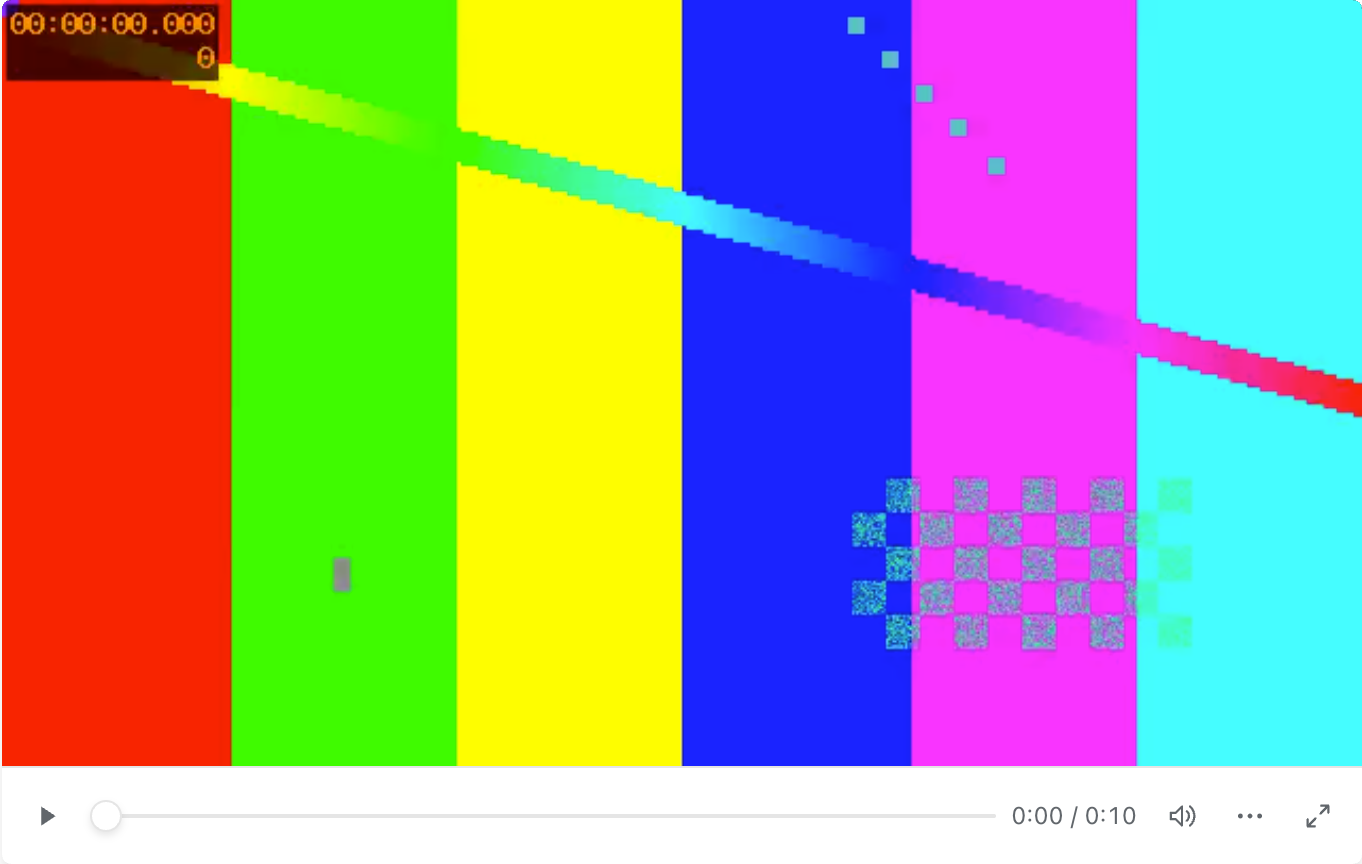
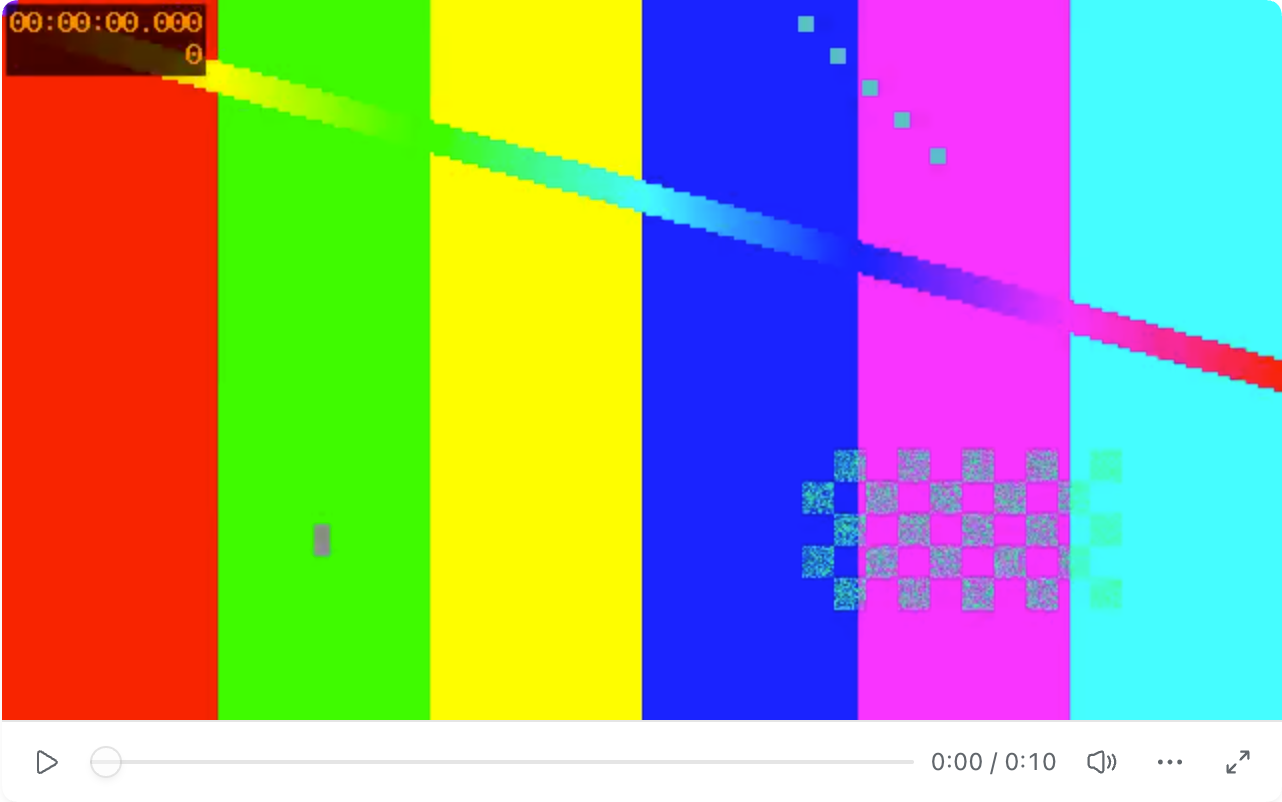
fix: 按逐状态截图校准音视频控件
对照 Codex 生产组件的 20 个状态，修正音频卡片、视频宽度、操作条、弹层、圆角、焦点与窄容器布局。更新截图与对照记录，保留表格和 Mermaid 的实现。

验证：4 项单元测试、20 项 DSH 宿主检查与两种加载顺序冷启动通过；桌面安装包更新至 0.2.2 并校验文件一致。

diff --git a/src/styles.css b/src/styles.css
@@ -53,59 +53,78 @@
   --dcr-border: var(--dsw-alias-border-l2);
   --dcr-hover: color-mix(in srgb, var(--dcr-text) 6%, transparent);
   font-family: var(--dsw-font-family);
+  font-weight: 430;
+  box-sizing: border-box;
 }
-.dcr-control { appearance: none; display: inline-flex; align-items: center; justify-content: center; flex: none; padding: 0; margin: 0; border: 0; background: transparent; color: var(--dcr-tertiary); cursor: pointer; user-select: none; -webkit-app-region: no-drag; }
+.dcr-media *, .dcr-menu * { box-sizing: border-box; }
+.dcr-control { appearance: none; display: inline-flex; align-items: center; justify-content: center; flex: none; padding: 0; margin: 0; border: 0; background: transparent; color: var(--dcr-tertiary); cursor: default; user-select: none; -webkit-app-region: no-drag; }
 .dcr-control svg { display: block; flex: none; }
-.dcr-control:hover:not(:disabled), .dcr-control[aria-expanded=true], .dcr-control[aria-pressed=true] { background: var(--dcr-hover); color: var(--dcr-text); }
+.dcr-control:hover:not(:disabled), .dcr-control[aria-expanded=true] { background: var(--dcr-hover); }
 .dcr-control:focus-visible { outline: 2px solid var(--dsw-alias-state-business-primary); outline-offset: 2px; }
 .dcr-control:disabled { opacity: .4; cursor: default; }
-.dcr-control-toolbar, .dcr-control-audio { width: 28px; height: 28px; border-radius: 6px; color: var(--dcr-secondary); }
-.dcr-control-audio { background: var(--dcr-hover); border: 1px solid var(--dcr-border); }
-.dcr-control-audio svg { width: 16px; height: 16px; }
-.dcr-controls { display: flex; align-items: center; gap: 4px; flex: none; }
-.dcr-tooltip { position: fixed; z-index: 10002; width: max-content; max-width: min(320px, calc(100vw - 16px)); padding: 5px 12px; border: 1px solid #ffffff14; border-radius: 16px; background: #181a1b; color: #fff; font-size: 13px; font-weight: 400; line-height: 18px; letter-spacing: .01em; box-shadow: 0 8px 18px #0f172a33; transform: translate(-50%, -100%); pointer-events: none; animation: dcr-tooltip-enter 100ms ease-out both; }
+.dcr-control-toolbar { width: 28px; height: 28px; border-radius: 10px; color: var(--dcr-secondary); }
+.dcr-control-audio, .dcr-control-audio-more { width: 20px; height: 28px; border-radius: 8px; }
+.dcr-control-audio { background: color-mix(in srgb, var(--dcr-text) 5%, transparent); color: var(--dcr-text); }
+.dcr-control-audio:hover:not(:disabled) { background: color-mix(in srgb, var(--dcr-text) 10%, transparent); }
+.dcr-control-audio-more:hover:not(:disabled), .dcr-control-audio-more[aria-expanded=true] { background: transparent; color: var(--dcr-text); }
+.dcr-media .dcr-actions { gap: 4px; }
+.dcr-tooltip { position: fixed; z-index: 10002; width: max-content; max-width: min(320px, calc(100vw - 16px)); padding: 5px 12px; border: 1px solid #ffffff14; border-radius: 16px; background: #1a1c1f; color: #fff; font-size: 13px; font-weight: 430; line-height: 18px; box-shadow: 0 8px 18px #0f172a33; transform: translate(-50%, -100%); pointer-events: none; animation: dcr-tooltip-enter 100ms ease-out both; }
 .dcr-tooltip-below { transform: translate(-50%, 0); }
-.dcr-menu { position: fixed; z-index: 10001; width: 224px; max-height: min(420px, calc(100vh - 16px)); overflow: auto; padding: 4px; border: .5px solid var(--dcr-border); border-radius: 16px; background: var(--dcr-surface); color: var(--dcr-text); box-shadow: 0 8px 24px #0000001f; animation: dcr-tooltip-enter 120ms ease-out both; }
-.dcr-menu > button { display: flex; align-items: center; gap: 8px; width: 100%; min-height: 32px; padding: 6px 8px; border: 0; border-radius: 8px; color: inherit; background: none; font: 13px/20px var(--dsw-font-family); text-align: start; cursor: pointer; }
+.dcr-menu { position: fixed; z-index: 10001; width: max-content; max-width: calc(100vw - 16px); max-height: calc(100vh - 16px); overflow: auto; padding: 4px; border: 0; border-radius: 16px; background: color-mix(in srgb, var(--dcr-surface) 90%, transparent); color: var(--dcr-text); backdrop-filter: blur(8px); box-shadow: 0 0 0 .5px var(--dcr-border), 0 8px 16px -4px #0000001f; animation: dcr-tooltip-enter 120ms ease-out both; }
+.dcr-menu-audio { min-width: 160px; }
+.dcr-menu-volume { background: var(--dcr-surface); }
+.dcr-menu > button { display: flex; align-items: center; gap: 6px; width: 100%; min-height: 0; padding: 5px 8px; border: 0; border-radius: 12px; color: inherit; background: none; font: 430 13px/18.5714px var(--dsw-font-family); white-space: nowrap; text-align: start; cursor: default; }
+.dcr-menu > button[role=menuitemradio] { font-weight: 500; }
 .dcr-menu > button > span { flex: 1; }
+.dcr-menu > button > .dcr-menu-check { width: 18px; height: 18px; flex: none; display: grid; place-items: center; }
 .dcr-menu > button:is(:hover,:focus-visible) { background: var(--dcr-hover); outline: none; }
 .dcr-menu > button:disabled { opacity: .4; cursor: default; }
-.dcr-menu hr { border: 0; border-top: .5px solid var(--dcr-border); margin: 4px; }
-.dcr-menu-label { padding: 6px 8px 4px; color: var(--dcr-tertiary); font-size: 12px; line-height: 18px; }
+.dcr-menu hr { border: 0; height: 1px; background: var(--dcr-border); margin: 4px 8px; }
+.dcr-menu-label { padding: 4px 8px; color: var(--dcr-tertiary); font-size: 12px; line-height: 18px; }
 
 /* Audio uses a compact attachment row. Video has a dedicated custom control strip. */
 .dcr-media { width: 100%; padding: 0; font-family: var(--dsw-font-family); margin: 12px 0; color: var(--dcr-text); }
-.dcr-audio { max-width: 512px; border: .5px solid var(--dcr-border); border-radius: 8px; background: color-mix(in srgb, var(--dcr-surface) 50%, var(--dsw-alias-markdown-code-block)); }
+.dcr-audio { max-width: 512px; overflow: hidden; border: 0; border-radius: 10px; box-shadow: 0 0 0 .5px var(--dcr-border); background: color-mix(in srgb, var(--dcr-surface) 50%, transparent); }
 .dcr-audio > header { display: flex; align-items: center; gap: 10px; padding: 6px; }
-.dcr-audio-file-icon { display: grid; place-items: center; width: 40px; height: 40px; flex: none; border-radius: 8px; background: var(--dsw-alias-markdown-code-block); color: var(--dsw-alias-state-business-primary); }
+.dcr-audio-file-icon { display: grid; place-items: center; width: 40px; height: 40px; flex: none; border-radius: 10px; background: var(--dsw-alias-markdown-code-block); color: #4263ef; }
 .dcr-media-name { min-width: 0; flex: 1; }
-.dcr-media-name > span { display: block; overflow: hidden; white-space: nowrap; text-overflow: ellipsis; font: 500 16px/20px var(--dsw-font-family); }
-.dcr-media-name > small { display: block; color: var(--dcr-secondary); font: 14px/20px var(--dsw-font-family); }
+.dcr-media-name > span { display: block; overflow: hidden; white-space: nowrap; text-overflow: ellipsis; font: 500 16px/24px var(--dsw-font-family); }
+.dcr-media-name > small { display: block; color: var(--dcr-secondary); font: 430 15px/22.5px var(--dsw-font-family); }
 .dcr-audio-controls { display: flex; align-items: center; gap: 8px; margin: 0; padding: 8px 12px; border-top: 1px solid var(--dcr-border); }
-.dcr-time { color: var(--dcr-secondary); font: 12px/18px var(--dsw-font-family); font-variant-numeric: tabular-nums; white-space: nowrap; }
-.dcr-timeline { appearance: none; flex: 1; min-width: 0; width: 100%; height: 24px; margin: 0; padding: 0; border: 0; background: none; cursor: pointer; touch-action: none; }
+.dcr-time { color: var(--dcr-secondary); font: 430 12px/16px var(--dsw-font-family); font-variant-numeric: tabular-nums; white-space: nowrap; }
+.dcr-timeline { appearance: none; flex: 1; min-width: 0; width: 100%; height: 24px; margin: 0; padding: 0; border: 0; background: none; cursor: default; touch-action: none; }
 :is(.dcr-video,.dcr-menu) .dcr-timeline::-webkit-slider-runnable-track { height: 2px; border-radius: 999px; background: linear-gradient(to right, var(--dcr-text) var(--dcr-progress), var(--dcr-border) var(--dcr-progress)); }
-:is(.dcr-video,.dcr-menu) .dcr-timeline::-webkit-slider-thumb { appearance: none; width: 16px; height: 16px; margin-top: -7px; border: 1px solid var(--dcr-border); border-radius: 50%; background: var(--dcr-surface); box-shadow: 0 2px 4px #0000001a; cursor: pointer; }
-:is(.dcr-video,.dcr-menu) .dcr-timeline:active::-webkit-slider-thumb { cursor: grabbing; }
-.dcr-timeline:focus-visible { outline: 2px solid var(--dsw-alias-state-business-primary); outline-offset: 2px; border-radius: 999px; }
+:is(.dcr-video,.dcr-menu) .dcr-timeline::-webkit-slider-thumb { appearance: none; width: 16px; height: 16px; margin-top: -7px; border: 1px solid var(--dcr-border); border-radius: 50%; background: color-mix(in srgb, var(--dsw-alias-markdown-code-block) 40%, transparent); box-shadow: 0 2px 4px -1px #00000014; cursor: default; }
+.dcr-timeline:focus-visible { outline: none; }
+.dcr-timeline:focus-visible:not(:active)::-webkit-slider-thumb { outline: 2px solid var(--dsw-alias-state-business-primary); outline-offset: 0; }
 .dcr-timeline:disabled { opacity: .4; cursor: default; }
-.dcr-audio .dcr-timeline { appearance: auto; height: 20px; accent-color: var(--dsw-alias-state-business-primary); }
-.dcr-video { max-width: 704px; border-radius: 6px; overflow: hidden; background: var(--dcr-surface); box-shadow: 0 4px 6px #0000001a; }
-.dcr-video video { display: block; width: 100%; margin: 0; border-radius: 0; max-height: min(calc(48vh - 40px), 472px); background: #000; object-fit: contain; cursor: pointer; }
+.dcr-audio .dcr-timeline { height: 20px; }
+.dcr-audio .dcr-timeline::-webkit-slider-runnable-track { height: 20px; background: transparent; }
+.dcr-audio .dcr-timeline::-webkit-slider-thumb { appearance: none; width: 15px; height: 15px; margin-top: 2.5px; border: 0; border-radius: 50%; background: #007aff; }
+.dcr-video { display: flex; flex-direction: column; min-height: 0; width: min(var(--dcr-video-width, 704px), 704px, calc(min(48vh, 512px) - 41px) * var(--dcr-video-ratio, 1.777778)); max-width: 100%; border-radius: 8px; overflow: hidden; background: var(--dcr-surface); box-shadow: 0 2px 4px -1px #00000014; }
+.dcr-video video { display: block; width: 100%; min-height: 0; margin: 0; border-radius: 0; background: #000; object-fit: contain; cursor: default; }
 .dcr-video video:focus-visible { outline: 2px solid var(--dsw-alias-state-business-primary); outline-offset: -2px; }
-.dcr-video-controls { display: flex; align-items: center; gap: 8px; min-height: 40px; padding: 4px 8px; border-top: 1px solid var(--dcr-border); }
+.dcr-video-controls { display: flex; align-items: center; column-gap: 8px; row-gap: 0; flex: none; height: 41px; padding: 0 8px; border-top: 1px solid var(--dcr-border); }
 .dcr-video-actions { display: flex; align-items: center; gap: 6px; }
-.dcr-volume-control { display: flex; align-items: center; gap: 8px; padding: 8px; }
+.dcr-volume-control { display: flex; align-items: center; width: 160px; gap: 8px; padding: 0; }
 .dcr-video:fullscreen { width: 100%; max-width: none; height: 100%; margin: 0; border-radius: 0; display: flex; flex-direction: column; }
 .dcr-video:fullscreen video { flex: 1; min-height: 0; max-height: none; }
 
 
 @keyframes dcr-tooltip-enter { from { opacity: 0; } to { opacity: 1; } }
-@media (max-width: 560px) { .dcr-video-controls { flex-wrap: wrap; } .dcr-video-controls > .dcr-timeline { flex-basis: 100%; order: -1; } .dcr-video-actions { margin-inline-start: auto; } }
+.dcr-video { container-type: inline-size; }
+@container (max-width: 320px) { .dcr-video-controls { height: auto; padding-block: 4px; flex-wrap: wrap; } .dcr-video-controls > .dcr-timeline { flex-basis: 100%; order: -1; } .dcr-video-actions { margin-inline-start: auto; } }
 @media (prefers-reduced-motion: reduce) { .dcr-control, .dcr-tooltip, .dcr-menu { animation: none !important; transition: none !important; } }
 
-.dcr-audio .dcr-time { font-size: 14px; line-height: 20px; }
-.dcr-audio .dcr-timeline:active { cursor: grabbing; }
+.dcr-audio .dcr-time { font-size: 15px; line-height: 22.5px; }
+@supports (corner-shape: superellipse(1.5)) {
+  .dcr-audio, .dcr-audio-file-icon { border-radius: 12.5px; }
+  .dcr-video { border-radius: 10px; }
+  .dcr-control-toolbar { border-radius: 12.5px; }
+  .dcr-control-audio, .dcr-control-audio-more { border-radius: 10px; }
+  .dcr-menu, .dcr-tooltip { border-radius: 20px; }
+  .dcr-audio, .dcr-video, .dcr-control, .dcr-menu, .dcr-tooltip { corner-shape: superellipse(1.5); }
+}
 
 .dcr-menu.dcr-menu-closing { animation: dcr-menu-leave 100ms ease-in forwards; pointer-events: none; }
 @keyframes dcr-menu-leave { to { opacity: 0; } }

diff --git a/src/components.jsx b/src/components.jsx
@@ -103,7 +103,7 @@ export function MermaidCard({code}) {
 
 const time=value=>`${Math.floor(value/60)}:${String(Math.floor(value%60)).padStart(2,'0')}`;
 export function MediaCard({item}) {
-  const player=useRef(),frame=useRef(),scrub=useRef(),[src,setSrc]=useState(null),[playing,setPlaying]=useState(false),[position,setPosition]=useState(0),[duration,setDuration]=useState(0),[error,setError]=useState(''),[volume,setVolume]=useState(1),[muted,setMuted]=useState(false),[rate,setRate]=useState(1),[fullscreen,setFullscreen]=useState(false);
+  const player=useRef(),frame=useRef(),scrub=useRef(),[src,setSrc]=useState(null),[playing,setPlaying]=useState(false),[position,setPosition]=useState(0),[duration,setDuration]=useState(0),[error,setError]=useState(''),[volume,setVolume]=useState(1),[muted,setMuted]=useState(false),[rate,setRate]=useState(1),[fullscreen,setFullscreen]=useState(false),[videoSize,setVideoSize]=useState(null);
   const filename=decodeURIComponent(item.url.split(/[?#]/)[0].split('/').pop()),name=filename||item.label||'媒体文件',kind=item.kind==='audio'?'音频':'视频';
   useEffect(()=>{
     const controller=new AbortController(),element=player.current;let objectURL;
@@ -124,16 +124,16 @@ export function MediaCard({item}) {
   const toggle=async()=>{try{if(player.current.paused)await player.current.play();else player.current.pause();}catch{setError('无法播放此文件，可通过原始文件链接打开。');}};
   const finishScrub=()=>{const resume=scrub.current;scrub.current=null;if(resume)player.current.play().catch(()=>setError('无法恢复播放。'));};
   const timeline=<input className="dcr-timeline" type="range" min="0" max={duration||1} step=".1" value={Math.min(position,duration||1)} disabled={!duration} style={{'--dcr-progress':`${duration?position/duration*100:0}%`}} aria-label={`${kind}进度`} aria-valuetext={`${time(position)} / ${time(duration)}`} onPointerDown={()=>{scrub.current=!player.current.paused;if(item.kind==='video')player.current.pause();}} onPointerUp={finishScrub} onPointerCancel={finishScrub} onLostPointerCapture={finishScrub} onChange={e=>{const value=Number(e.target.value);player.current.currentTime=value;setPosition(value);}}/>;
-  const play=<MediaAction label={playing?`暂停${kind}`:`播放${kind}`} icon={playing?'pause':'play'} variant={item.kind==='audio'?'audio':'toolbar'} disabled={!src} onClick={toggle}/>;
-  const fileItems=[{label:'下载媒体',icon:'download',onSelect:download},{label:'复制文件地址',icon:'copy',onSelect:()=>navigator.clipboard.writeText(item.url)},{label:'打开原始文件',icon:'external',onSelect:()=>window.open(item.src,'_blank','noopener,noreferrer')}];
-  const common={src:src??undefined,preload:'metadata',onError:()=>setError('无法播放此文件，可通过原始文件链接打开。'),onLoadedMetadata:e=>{const value=e.currentTarget.duration;setDuration(Number.isFinite(value)?value:0);},onTimeUpdate:e=>setPosition(e.currentTarget.currentTime),onPlay:()=>setPlaying(true),onPause:()=>setPlaying(false),onEnded:()=>setPlaying(false),onVolumeChange:e=>{setVolume(e.currentTarget.volume);setMuted(e.currentTarget.muted);},onRateChange:e=>setRate(e.currentTarget.playbackRate)};
-  return <section ref={frame} className={`dcr-media dcr-${item.kind}`} aria-label={`${kind}播放器`}>
+  const play=<MediaAction label={playing?`暂停${kind}`:`播放${kind}`} icon={playing?'pause':item.kind==='video'?'playOutline':'play'} variant={item.kind==='audio'?'audio':'toolbar'} tooltip={item.kind==='video'} disabled={!src} onClick={toggle}/>;
+  const copyPath=()=>navigator.clipboard.writeText(item.url);
+  const common={src:src??undefined,preload:'metadata',onError:()=>setError('无法播放此文件，可通过原始文件链接打开。'),onLoadedMetadata:e=>{const el=e.currentTarget,value=el.duration;setDuration(Number.isFinite(value)?value:0);if(item.kind==='video')setVideoSize({width:el.videoWidth,height:el.videoHeight});},onTimeUpdate:e=>setPosition(e.currentTarget.currentTime),onPlay:()=>setPlaying(true),onPause:()=>setPlaying(false),onEnded:()=>setPlaying(false),onVolumeChange:e=>{setVolume(e.currentTarget.volume);setMuted(e.currentTarget.muted);},onRateChange:e=>setRate(e.currentTarget.playbackRate)};
+  return <section ref={frame} className={`dcr-media dcr-${item.kind}`} style={videoSize?{'--dcr-video-width':`${videoSize.width}px`,'--dcr-video-ratio':videoSize.width/videoSize.height}:undefined} aria-label={`${kind}播放器`}>
     {item.kind==='video'?<><video ref={player} playsInline tabIndex="0" aria-label={item.label||name} onClick={toggle} onKeyDown={event=>{if([' ','Enter'].includes(event.key)){event.preventDefault();if(!event.repeat)toggle();}}} {...common}/><div className="dcr-video-controls">
       {play}{timeline}<span className="dcr-time">{time(position)} / {time(duration)}</span><div className="dcr-video-actions">
-        <Menu label="视频音量" icon={muted||!volume?'mute':'volume'} variant="toolbar"><div className="dcr-volume-control"><MediaAction variant="toolbar" label={muted?'取消静音':'静音视频'} icon={muted||!volume?'mute':'volume'} pressed={muted} onClick={()=>{player.current.muted=!player.current.muted;}}/><input className="dcr-timeline" type="range" min="0" max="1" step=".01" value={muted?0:volume} aria-label="视频音量大小" style={{'--dcr-progress':`${muted?0:volume*100}%`}} onChange={event=>{player.current.volume=Number(event.target.value);player.current.muted=false;}}/></div></Menu>
-        <Menu label="视频选项" variant="toolbar" items={[...fileItems,{separator:true},{heading:'播放速度'},...[.25,.5,.75,1,1.25,1.5,1.75,2].map(value=>({label:`${value}×`,checked:rate===value,onSelect:()=>{player.current.playbackRate=value;}})),...document.pictureInPictureEnabled?[{separator:true},{label:'画中画',icon:'pip',onSelect:async()=>{try{if(document.pictureInPictureElement===player.current)await document.exitPictureInPicture();else await player.current.requestPictureInPicture();}catch{setError('无法打开画中画。');}}}]:[]]}/>
-        <MediaAction variant="toolbar" label={fullscreen?'退出全屏':'全屏播放'} icon="expand" onClick={async()=>{try{if(fullscreen)await document.exitFullscreen();else await frame.current.requestFullscreen();}catch{setError('无法进入全屏播放。');}}}/>
-      </div></div></>:<><audio ref={player} {...common}/><header><div className="dcr-audio-file-icon"><MediaIcon name="audio" size={24}/></div><div className="dcr-media-name"><span title={name}>{name}</span><small>{!src?'正在加载音频…':`${filename.split('.').pop().toUpperCase()} 音频`}</small></div><div className="dcr-actions">{play}<Menu label="音频选项" variant="toolbar" items={fileItems}/></div></header><div className="dcr-audio-controls">{timeline}<span className="dcr-time">{time(position)} / {time(duration)}</span></div></>}
+        <Menu label="视频音量" icon={muted||!volume?'mute':'volume'} kind="volume" side="top"><div className="dcr-volume-control"><MediaAction label={muted?'取消静音':'静音视频'} icon={muted||!volume?'mute':'volume'} pressed={muted} onClick={()=>{player.current.muted=!player.current.muted;}}/><input className="dcr-timeline" type="range" min="0" max="1" step=".01" value={muted?0:volume} aria-label="视频音量大小" style={{'--dcr-progress':`${muted?0:volume*100}%`}} onChange={event=>{player.current.volume=Number(event.target.value);player.current.muted=false;}}/></div></Menu>
+        <Menu label="视频选项" side="top" items={[{label:'将视频保存为…',onSelect:download},{separator:true},{label:'复制链接',onSelect:copyPath},{separator:true},{heading:'播放速度'},...[.25,.5,.75,1,1.25,1.5,1.75,2].map(value=>({label:`${value}×`,checked:rate===value,onSelect:()=>{player.current.playbackRate=value;}})),...document.pictureInPictureEnabled?[{label:'画中画',onSelect:async()=>{try{if(document.pictureInPictureElement===player.current)await document.exitPictureInPicture();else await player.current.requestPictureInPicture();}catch{setError('无法打开画中画。');}}}]:[]]}/>
+        <MediaAction label={fullscreen?'退出全屏':'全屏播放'} icon={fullscreen?'collapse':'expand'} onClick={async()=>{try{if(fullscreen)await document.exitFullscreen();else await frame.current.requestFullscreen();}catch{setError('无法进入全屏播放。');}}}/>
+      </div></div></>:<><audio ref={player} {...common}/><header><div className="dcr-audio-file-icon"><MediaIcon name="audio" size={24}/></div><div className="dcr-media-name"><span title={name}>{name}</span><small>{!src?'正在加载音频…':`${filename.split('.').pop().toUpperCase()} 音频`}</small></div><div className="dcr-actions">{play}<Menu label="音频选项" variant="audio-more" kind="audio" items={[{label:'复制路径',icon:'copy',onSelect:copyPath},{label:'保存副本…',icon:'download',onSelect:download}]}/></div></header><div className="dcr-audio-controls">{timeline}<span className="dcr-time">{time(position)} / {time(duration)}</span></div></>}
     {item.kind==='video'&&!src&&!error&&<p className="dcr-status" role="status">正在加载视频…</p>}
     {error&&<p className="dcr-status" role="status">{error}</p>}
   </section>;

diff --git a/src/controls.jsx b/src/controls.jsx
@@ -2,6 +2,7 @@ import React,{useEffect,useLayoutEffect,useRef,useState,useId} from 'react';
 import {createPortal} from 'react-dom';
 
 export function Icon({name,size=20}) {
+  if(name==='audio')return <svg width={size} height={size} viewBox="0 0 24 24" aria-hidden="true">{[[3,9.18,6,'#7da2ff'],[7,3.18,18,'#6d91f5'],[11,7.18,10,'#5d7fec'],[15,5.18,14,'#4c6ee2'],[19,9.18,6,'#3c5cd8']].map(([x,y,height,fill])=><rect key={x} x={x} y={y} width="2" height={height} rx="1" fill={fill}/>)}</svg>;
   const paths={
     copy:<><rect x="3.5" y="6.5" width="10" height="11" rx="2.5"/><path d="M7 3h7a3 3 0 0 1 3 3v7"/></>,
     expand:<path d="M12 3.5h4.5V8M16.5 3.5l-5 5M8 16.5H3.5V12M3.5 16.5l5-5"/>,
@@ -9,24 +10,25 @@ export function Icon({name,size=20}) {
     check:<path d="m4 10 4 4 8-9"/>,
     download:<path d="M10 3v9m-4-4 4 4 4-4M4 13v3a1 1 0 0 0 1 1h10a1 1 0 0 0 1-1v-3"/>,
     code:<path d="m6.5 5-5 5 5 5m7-10 5 5-5 5M11.5 3l-3 14"/>,
-    play:<path d="m7 4 9 6-9 6Z" fill="currentColor" stroke="none"/>,
+    play:<path d="M6 5.4c0-1 1.1-1.6 1.9-1.1l7.4 4.7c.8.5.8 1.6 0 2.1l-7.4 4.7c-.8.5-1.9-.1-1.9-1.1Z" fill="currentColor" stroke="none"/>,
+    playOutline:<path d="M5 4.6c0-1 1.1-1.6 1.9-1.1l9.1 5.6c.9.5.9 1.8 0 2.3l-9.1 5.3C6.1 17.2 5 16.6 5 15.6Z"/>,
+    collapse:<path d="M3.5 8H8V3.5M8 8l-5-5M16.5 12H12v4.5M12 12l5 5"/>,
     pause:<path d="M6 4h3v12H6zM12 4h3v12h-3z" fill="currentColor" stroke="none"/>,
     plus:<path d="M4 10h12M10 4v12"/>,
     minus:<path d="M4 10h12"/>,
     external:<path d="M10 3h7v7m0-7-9 9M8 4H4a1 1 0 0 0-1 1v11a1 1 0 0 0 1 1h11a1 1 0 0 0 1-1v-4"/>,
     more:<g fill="currentColor" stroke="none"><circle cx="4" cy="10" r="1.5"/><circle cx="10" cy="10" r="1.5"/><circle cx="16" cy="10" r="1.5"/></g>,
-    audio:<><path d="M5 3.5h6l4 4v9H5zM11 3.5v4h4"/><path d="M11.5 9.5v4m-3 0a1.5 1.5 0 1 0 3 0"/></>,
-    volume:<><path d="M3 8h3l4-4v12l-4-4H3zM13 7a4 4 0 0 1 0 6M15 4a8 8 0 0 1 0 12"/></>,
-    mute:<><path d="M3 8h3l4-4v12l-4-4H3zM14 8l4 4m0-4-4 4"/></>,
+    volume:<><path d="M9 3.6c.7-.5 1.8 0 1.8 1v10.8c0 1-1.1 1.5-1.8 1l-4-2.9H3.3c-.9 0-1.6-.7-1.6-1.6V7.1c0-.9.7-1.6 1.6-1.6H5ZM13.8 6.5a5.5 5.5 0 0 1 0 7M16.7 5.4a7.7 7.7 0 0 1 0 9.2"/></>,
+    mute:<><path d="M10.8 8V4.6c0-1-1.1-1.5-1.8-1L6.8 5.2M4.6 5.5H3.3c-.9 0-1.6.7-1.6 1.6v4.8c0 .9.7 1.6 1.6 1.6H5l4 2.9c.7.5 1.8 0 1.8-1v-3M13.8 6.5a5.5 5.5 0 0 1 1.2 5M16.7 5.4a7.7 7.7 0 0 1 .8 8M2 2l16 16"/></>,
     pip:<><rect x="2" y="4" width="16" height="12" rx="2"/><rect x="10" y="10" width="6" height="4" rx=".5" fill="currentColor" stroke="none"/></>,
   };
   return <svg width={size} height={size} viewBox="0 0 20 20" fill="none" stroke="currentColor" strokeWidth="1.4" strokeLinecap="round" strokeLinejoin="round" aria-hidden="true">{paths[name]}</svg>;
 }
 
-export function Action({label,icon,onClick,disabled=false,pressed,variant='toolbar',buttonRef,children,...props}) {
+export function Action({label,icon,onClick,disabled=false,pressed,variant='toolbar',tooltip=true,buttonRef,children,...props}) {
   const local=useRef(),timer=useRef(),id=useId(),[tip,setTip]=useState(null),ref=buttonRef??local;
   const hide=()=>{clearTimeout(timer.current);setTip(null);};
-  const show=()=>{clearTimeout(timer.current);if(disabled)return;timer.current=setTimeout(()=>{
+  const show=()=>{clearTimeout(timer.current);if(disabled||!tooltip)return;timer.current=setTimeout(()=>{
     const box=ref.current.getBoundingClientRect();setTip({left:box.left+box.width/2,top:box.top,bottom:box.bottom});
   },200);};
   useEffect(()=>()=>clearTimeout(timer.current),[]);
@@ -36,28 +38,28 @@ export function Action({label,icon,onClick,disabled=false,pressed,variant='toolb
     {tip&&createPortal(<div data-dcr-ui="" id={id} role="tooltip" className={`dcr-tooltip${edge?' dcr-tooltip-below':''}`} style={{left:Math.max(100,Math.min(innerWidth-100,tip.left)),top:edge?tip.bottom+2:tip.top-2}}>{label}</div>,portal)}</>;
 }
 
-export function Menu({label,items,variant='block',icon='more',children}) {
+export function Menu({label,items,variant='toolbar',icon='more',children,kind='options',side='bottom'}) {
   const trigger=useRef(),panel=useRef(),timer=useRef(),[position,setPosition]=useState(null),[closing,setClosing]=useState(false),id=useId();
   const close=(restore=true)=>{if(closing)return;setClosing(true);if(restore)trigger.current?.focus({preventScroll:true});timer.current=setTimeout(()=>{setPosition(null);setClosing(false);},matchMedia('(prefers-reduced-motion: reduce)').matches?0:100);};
   useEffect(()=>()=>clearTimeout(timer.current),[]);
-  const locate=()=>{const r=trigger.current.getBoundingClientRect();setPosition({left:Math.max(8,Math.min(innerWidth-232,r.right-224)),top:r.bottom+6,bottom:innerHeight-r.top+6,above:r.bottom+300>innerHeight});};
-  useLayoutEffect(()=>{if(!position)return;panel.current.querySelector('button,input')?.focus({preventScroll:true});},[!!position]);
+  const locate=()=>{const r=trigger.current.getBoundingClientRect(),box=panel.current?.getBoundingClientRect(),width=box?.width??0,height=box?.height??0,gap=kind==='volume'?4:2,above=side==='top'?r.top-height-gap>=8:r.bottom+height+gap>innerHeight&&r.top-height>8;setPosition({left:Math.max(8,Math.min(innerWidth-width-8,r.right-width-(children?0:1))),top:r.bottom+gap,bottom:innerHeight-r.top+gap,above});};
+  useLayoutEffect(()=>{if(!position)return;locate();panel.current.querySelector('button,input')?.focus({preventScroll:true});},[!!position]);
   useEffect(()=>{
     if(!position)return;
     const outside=e=>{if(!trigger.current.contains(e.target)&&!panel.current.contains(e.target))close(false);};
-    window.addEventListener('pointerdown',outside,true);window.addEventListener('resize',locate);window.addEventListener('scroll',locate,true);
-    return()=>{window.removeEventListener('pointerdown',outside,true);window.removeEventListener('resize',locate);window.removeEventListener('scroll',locate,true);};
+    window.addEventListener('pointerdown',outside,true);window.addEventListener('focusin',outside,true);window.addEventListener('resize',locate);window.addEventListener('scroll',locate,true);
+    return()=>{window.removeEventListener('pointerdown',outside,true);window.removeEventListener('focusin',outside,true);window.removeEventListener('resize',locate);window.removeEventListener('scroll',locate,true);};
   },[!!position,closing]);
   const keyboard=event=>{
     if(event.key==='Escape'){event.stopPropagation();event.preventDefault();close();return;}
-    if(event.key==='Tab'){close(false);return;}
+    if(event.key==='Tab'){if(!children)close(false);return;}
     if(event.target.tagName==='INPUT')return;
     const buttons=Array.from(panel.current.querySelectorAll('button:not(:disabled)')),index=buttons.indexOf(document.activeElement);
     const next={ArrowDown:(index+1)%buttons.length,ArrowUp:(index-1+buttons.length)%buttons.length,Home:0,End:buttons.length-1}[event.key];
     if(next!==undefined){event.preventDefault();buttons[next]?.focus();}
   };
-  return <><Action label={label} icon={icon} variant={variant} buttonRef={trigger} aria-haspopup="menu" aria-expanded={!!position&&!closing} aria-controls={position?id:undefined} onClick={()=>position?close():locate()}/>
-    {position&&createPortal(<div data-dcr-ui="" id={id} ref={panel} role="menu" aria-label={label} inert={closing} className={`dcr-menu${closing?' dcr-menu-closing':''}`} style={{left:position.left,...position.above?{bottom:position.bottom}:{top:position.top}}} onKeyDown={keyboard}>
-      {children}{items?.map((item,index)=>item.separator?<hr key={index}/>:item.heading?<div className="dcr-menu-label" key={index}>{item.heading}</div>:<button key={item.label} type="button" role={item.checked===undefined?'menuitem':'menuitemradio'} aria-checked={item.checked} disabled={item.disabled} onClick={()=>{item.onSelect();close();}}>{item.icon&&<Icon name={item.icon} size={16}/>}<span>{item.label}</span>{item.checked&&<Icon name="check" size={16}/>}</button>)}
+  return <><Action label={label} icon={icon} variant={variant} tooltip={kind!=='audio'} buttonRef={trigger} aria-haspopup={children?'dialog':'menu'} aria-expanded={!!position&&!closing} aria-controls={position?id:undefined} onClick={()=>position?close():locate()}/>
+    {position&&createPortal(<div data-dcr-ui="" id={id} ref={panel} role={children?'dialog':'menu'} aria-label={label} inert={closing} className={`dcr-menu dcr-menu-${kind}${closing?' dcr-menu-closing':''}`} style={{left:position.left,...position.above?{bottom:position.bottom}:{top:position.top}}} onKeyDown={keyboard}>
+      {children}{items?.map((item,index)=>item.separator?<hr key={index}/>:item.heading?<div className="dcr-menu-label" key={index}>{item.heading}</div>:<button key={item.label} type="button" role={item.checked===undefined?'menuitem':'menuitemradio'} aria-checked={item.checked} disabled={item.disabled} onClick={()=>{item.onSelect();close();}}>{item.icon&&<Icon name={item.icon} size={16}/>}<span>{item.label}</span>{item.checked!==undefined&&<span className="dcr-menu-check">{item.checked&&<Icon name="check" size={17}/>}</span>}</button>)}
     </div>,trigger.current?.closest('dialog')??document.fullscreenElement??document.body)}</>;
 }

diff --git a/docs/codex-media-parity.md b/docs/codex-media-parity.md
@@ -1,24 +1,50 @@
-# Codex 音视频控件对齐记录
+# Codex 音视频逐状态对照
 
-以本机 Codex 桌面端的音视频组件布局和控件样式为依据，在 DSH 0.2.0-rc.2 宿主中验证。所有数值是 CSS 像素，截图使用 2 倍显示比例。
+2026-10-13 对照本机 Codex **26.1007.30912** 的生产音视频组件与 DSH **0.2.0-rc.2** 的插件回复。表格、表格预览和 Mermaid 保持原有实现。
 
-表格、表格预览和 Mermaid 图表保持 0.1.4 的实现。
+参考组件直接读取本机 Codex 安装包，在隔离 Chrome 中离线渲染，保留原始组件逻辑、生产 CSS、中文文案、样式层顺序与 Electron 样式标记。没有重启或连接正在运行的 Codex，也没有把 Codex 的代码打包进本插件。
 
-| 控件 | Codex 的布局与数值 | 插件实现 |
-| --- | --- | --- |
-| 音频卡片 | 最大宽度 512px、8px 圆角 | 文件附件卡片，主题颜色跟随 DSH |
-| 文件行 | 40px 图标、6px 内边距、10px 内容间距 | 文件名与格式分两行，右侧播放和选项 |
-| 音频时间轴 | 20px 原生 range、8px 上下和 12px 左右内边距 | 独立进度行，显示当前时间与总时长 |
-| 视频框 | 6px 圆角、独立下方操作条 | 内嵌视频加自定义控制区域 |
-| 视频操作条 | 40px 高度、8px 左右内边距、28px 按钮 | 播放、进度、音量、选项和全屏 |
-| 视频时间轴 | 2px 轨道、16px 滑块、圆角与阴影 | 指针悬停、拖动定位、键盘操作 |
-| 提示框 | 16px 圆角、左右 12px、上下 5px、200ms 延迟 | 独立提示层，点击和滚动时收起 |
-| 播放选项 | 文件操作、0.25–2 倍速、画中画 | 菜单跟随触发按钮，全屏时进入全屏容器 |
+DSH 截图来自隔离配置的真实 Web 宿主。两侧使用同一份 10 秒 WAV 和 640×360 MP4，显示比例为 2 倍。数值为 CSS 像素；截图中的媒体帧可能相差几个解码帧。
 
-图标由本插件绘制，颜色使用 DSH 的主题变量。视频使用自定义控件；音频时间轴与 Codex 一样使用浏览器的 range 控件。
+## 逐状态检查
+
+共比较 20 个状态：音频默认、悬停、播放、定位、文件菜单；视频默认、悬停、定位、按住滑块、音量、速度菜单、速度选中、全屏、300px 容器、播放、键盘焦点、静音、菜单悬停；音频和视频深色模式。
+
+| 节点 | Codex 实测 | 0.2.1 | 0.2.2 |
+| --- | --- | --- | --- |
+| 音频卡片 | 512×98 | 514×91 | 512×98 |
+| 文件标题 / 格式 | 16px / 15px，行高 24px / 22.5px | 16px / 14px，行高均为 20px | 同参考字号和行高 |
+| 音频播放按钮 | 20×28、无描边、圆角背景 | 28×28、方形描边 | 20×28、无描边、圆角背景 |
+| 音频菜单 | 160×65.13，两项操作 | 234×106，三项操作 | 160×65.16，复制路径与保存副本 |
+| 640×360 视频 | 640×401 | 680×431.5 | 640×401 |
+| 视频操作条 | 40px 控件加 1px 分隔线 | 额外上下内边距 | 40px 控件加 1px 分隔线 |
+| 音量弹层 | 168×36 | 234×54 | 168×36 |
+| 速度菜单 | 112.59×366.75 | 234×430 | 112.59×366.36 |
+| 300px 视频容器 | 300×229.75，进度条独占首行 | 按视口宽度换行 | 300×229.75，按容器宽度换行 |
+
+圆角随浏览器的 `corner-shape` 支持调整：普通模式音频 10px、视频 8px、菜单 16px；支持超椭圆时分别为 12.5px、10px、20px，与参考的规则一致。
+
+### 音频
+
+![音频逐状态对照](../assets/audio-comparison.png)
+
+左侧是生产组件离线参考，右侧是插件在 DSH 宿主中的呈现。波形图标、文件行、格式行、进度和按钮均独立实现。
+
+### 视频音量
+
+![视频音量对照](../assets/video-comparison.png)
+
+两侧音量面板均为 168×36。菜单按实测内容尺寸定位，不再使用预设 300px 高度估算位置。
+
+## 交互与差异
+
+- 视频按住时间轴时暂停，松开后恢复此前的播放状态；键盘定位只在滑块上显示焦点环。
+- 视频菜单位于控制条上方，音频菜单位于按钮下方，空间不足时翻转。全屏时弹层进入全屏容器。
+- 音频按钮采用背景反馈；视频按钮保留延迟提示框。鼠标形态按参考的 macOS 默认箭头处理。
+- 文件操作使用 DSH 提供的真实路径和文件接口。当前 Codex 中文包的 `Copy link` 文案缺少翻译，插件使用“复制链接”。
+
+几何尺寸与状态反馈已按截图修正。颜色继续采用 DSH 主题变量，深色操作条比 Codex 更亮；图标由插件独立绘制，仍可能有细微轮廓差异。此次截图是原组件的离线渲染，桌面窗口材质与平台控件尚未逐状态核验。
 
 ## 验证
 
-`npm run check` 在隔离的真实 DSH 宿主中验证音视频播放、定位、倍速、音量、静音、全屏内菜单、HTTP 媒体与本地媒体，以及表格、图表、插件启停和批注兼容性。
-
-`assets/audio.png` 和 `assets/video.png` 由真实宿主生成，README 与截图随功能一起更新。
+`npm run check` 通过 4 项内容与设置测试、20 项真实 DSH 宿主检查和 2 种插件加载顺序的冷启动检查。覆盖播放、定位、倍速、音量、静音、全屏菜单、尺寸、路径复制、HTTP 与本地文件、表格、图表及批注兼容性。

diff --git a/README.md b/README.md
@@ -50,7 +50,7 @@ npm pack
 安装到桌面端：
 
 ```sh
-dsh plugin --profile desktop add "$PWD/deepseekharness-plugin-dsh-codex-renderer-0.2.1.tgz"
+dsh plugin --profile desktop add "$PWD/deepseekharness-plugin-dsh-codex-renderer-0.2.2.tgz"
 ```
 
 然后在 DSH 的「插件」页面确认「回复渲染增强」已启用。
@@ -98,7 +98,11 @@ npm run demo:media
 
 ## 音视频控件对齐
 
-音频的附件行和视频操作条按 Codex 的尺寸分别实现。表格与图表保持原有布局，设置仍使用 DSH 原生组件。尺寸依据见 [音视频控件对齐记录](docs/codex-media-parity.md)。
+音频的附件行和视频操作条按 Codex 原组件的截图与尺寸实现，对比覆盖 20 个状态，包括播放、悬停、拖动、菜单、音量、全屏、窄宽度与深色模式。表格与图表保持原有布局，设置仍使用 DSH 原生组件。
+
+![音频控件对照](assets/audio-comparison.png)
+
+参考截图由本机 Codex 生产组件离线渲染，DSH 截图来自真实 Web 宿主。尺寸、截图来源和仍存在的差异见 [逐状态对照记录](docs/codex-media-parity.md)。
 
 ## 开发与验证
 
